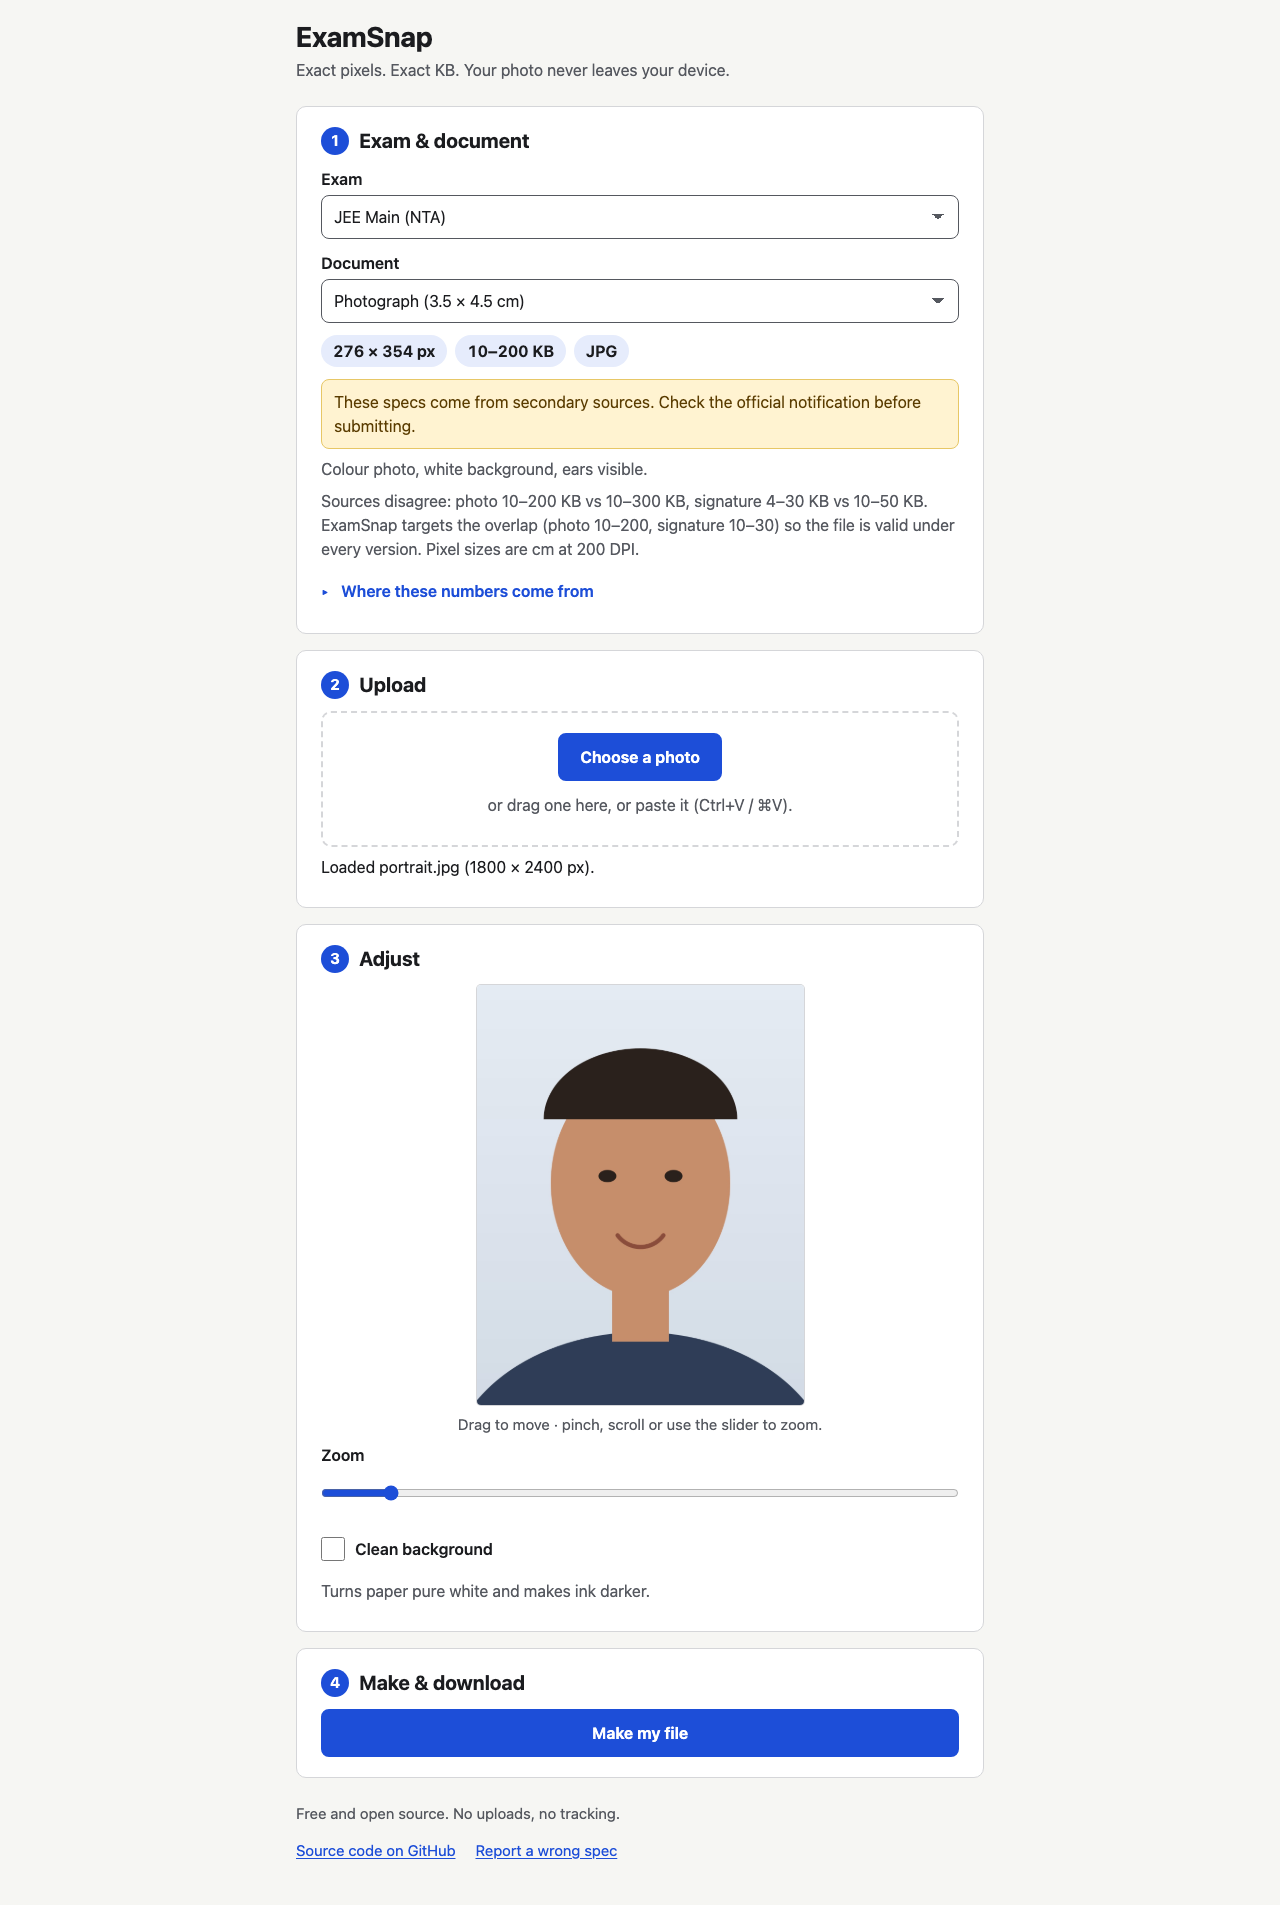
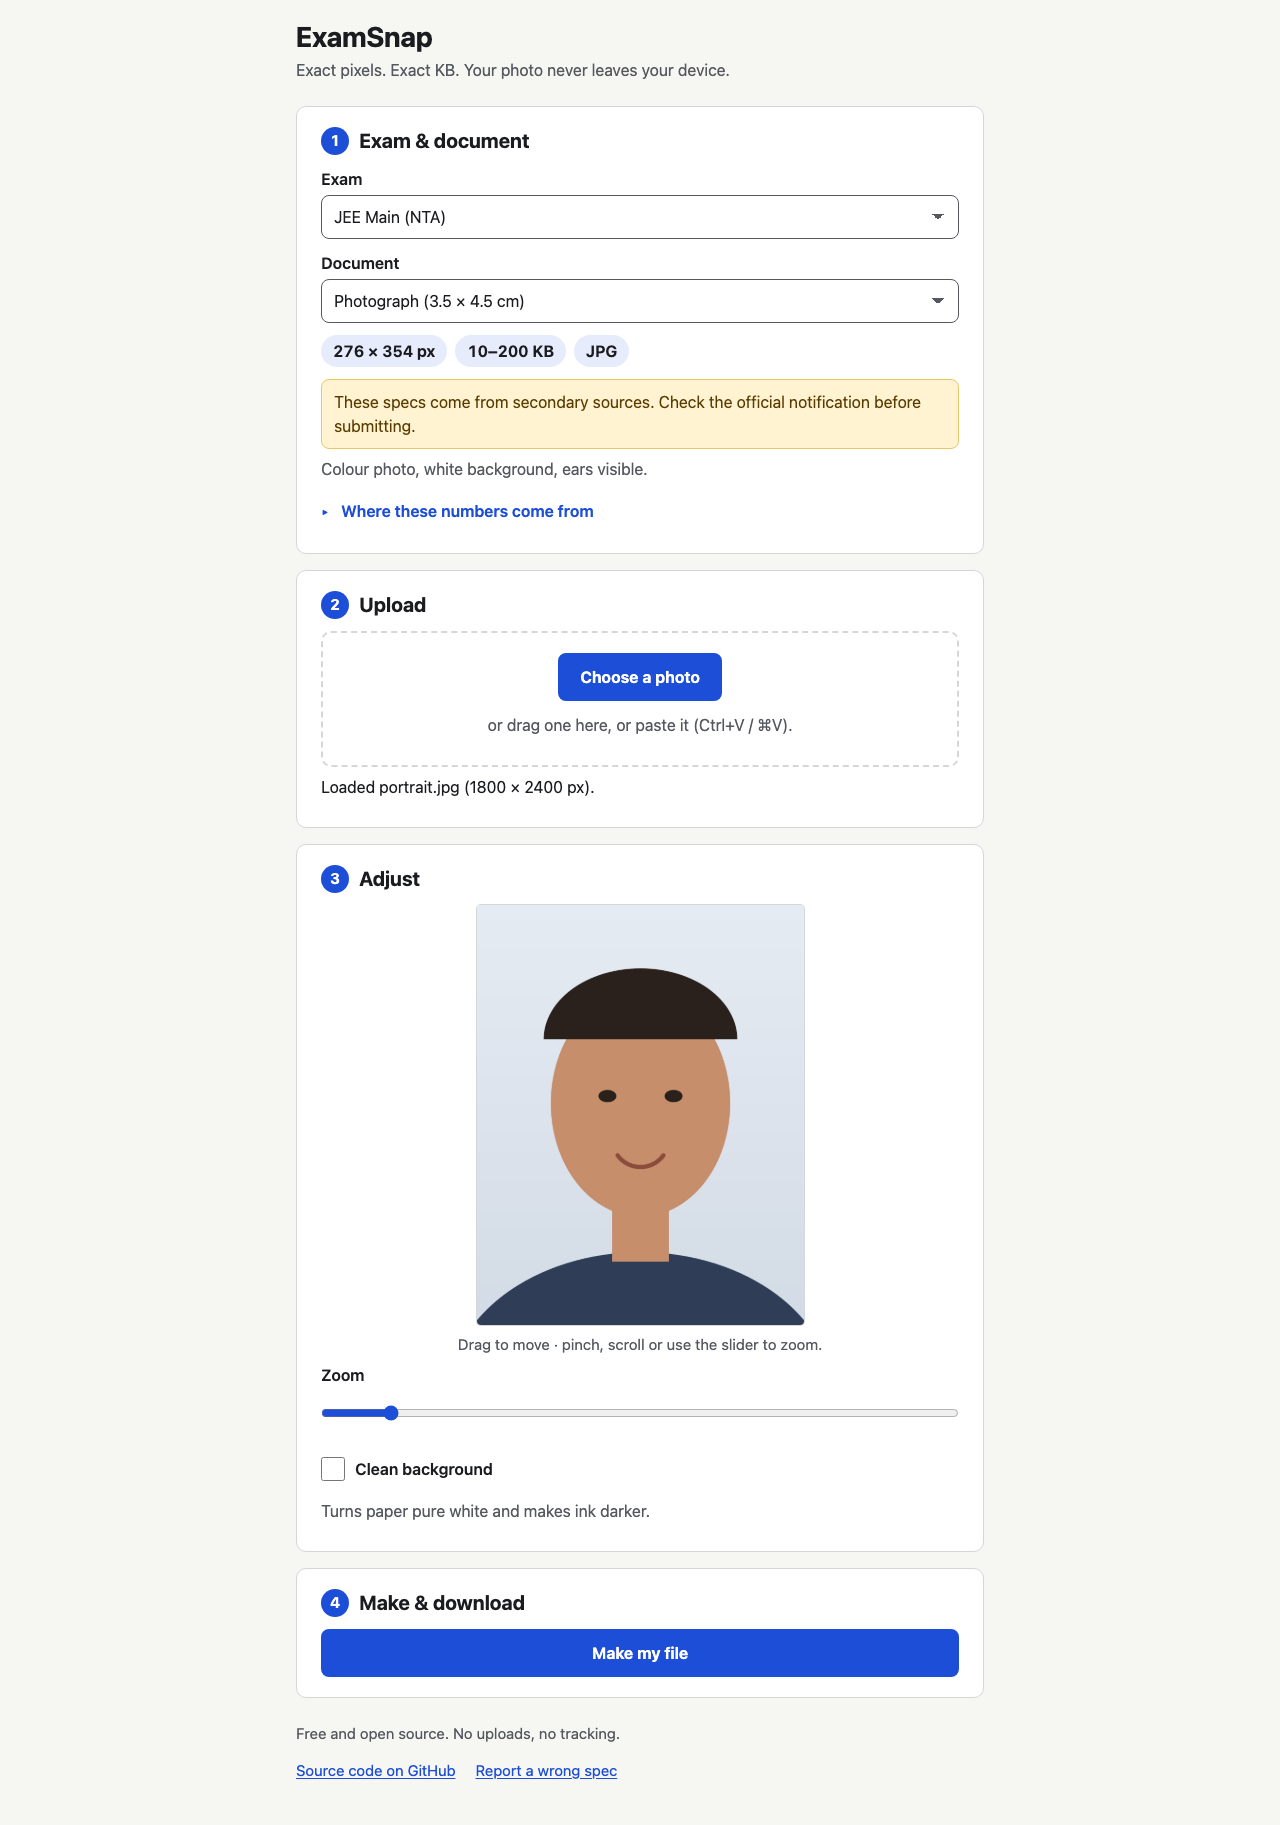
Move preset notes into the collapsible sources section
Step 1 is shorter on phones: the spec chips, the secondary-sources
warning and the selected document's own notes stay visible, while the
preset-wide notes now sit inside 'Where these numbers come from', above
the source list. Screenshots regenerated.

Changed region(s): [[0.25, 0.0, 0.75, 0.3748], [0.25, 0.3436, 0.6562, 0.7496], [0.25, 0.7496, 0.75, 0.9995]]

diff --git a/src/ui/app.js b/src/ui/app.js
@@ -37,6 +37,7 @@ const el = {
   chips: $("chips"),
   warning: $("warning"),
   notes: $("notes"),
+  presetNotes: $("preset-notes"),
   sources: $("sources"),
   sourceList: $("source-list"),
   verified: $("verified"),
@@ -127,9 +128,11 @@ function renderSpec() {
   );
 
   el.warning.hidden = isCustom || hasNotice(preset);
-  el.notes.replaceChildren(
-    ...[doc?.notes, preset?.notes].filter(Boolean).map((t) => make$("p", { textContent: t })),
-  );
+  // The document's own notes stay visible; preset-wide notes live in the
+  // collapsible sources section to keep step 1 short on phones.
+  const paragraphs = (...texts) => texts.filter(Boolean).map((t) => make$("p", { textContent: t }));
+  el.notes.replaceChildren(...paragraphs(doc?.notes));
+  el.presetNotes.replaceChildren(...paragraphs(preset?.notes));
 
   el.sources.hidden = isCustom;
   el.sourceList.replaceChildren(

diff --git a/index.html b/index.html
@@ -54,6 +54,7 @@
 
       <details id="sources" class="sources">
         <summary data-s="sourcesSummary"></summary>
+        <div id="preset-notes" class="notes"></div>
         <ul id="source-list"></ul>
         <p id="verified" class="muted"></p>
       </details>

diff --git a/src/ui/styles.css b/src/ui/styles.css
@@ -363,6 +363,10 @@ input[type="range"] {
   display: none;
 }
 
+.sources .notes p {
+  margin: 4px 0 8px;
+}
+
 .sources ul {
   margin: 4px 0;
   padding-left: 20px;
